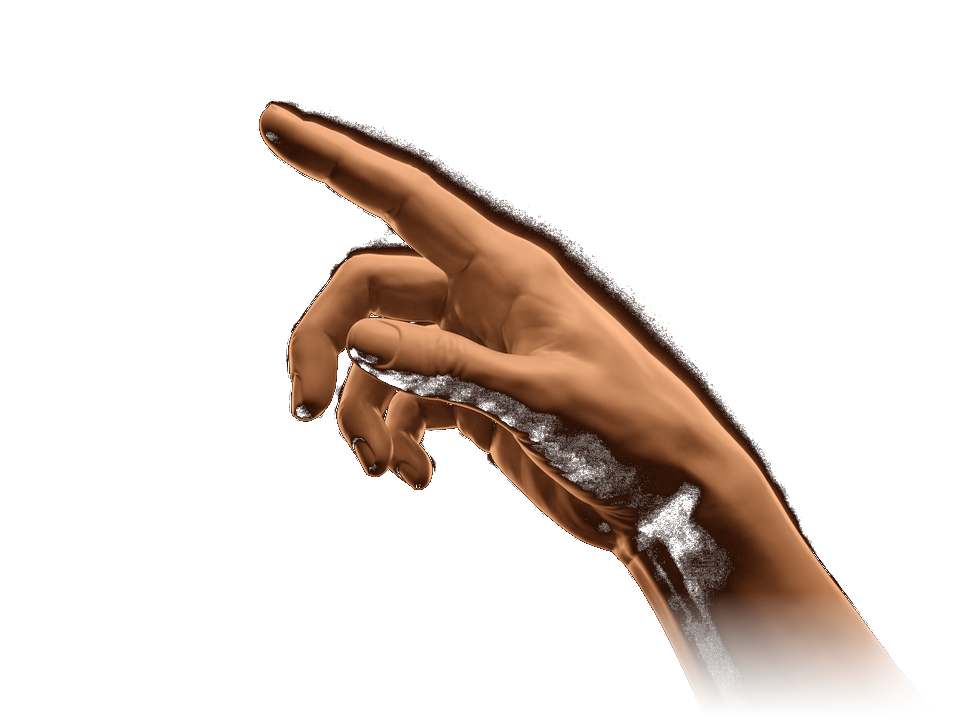
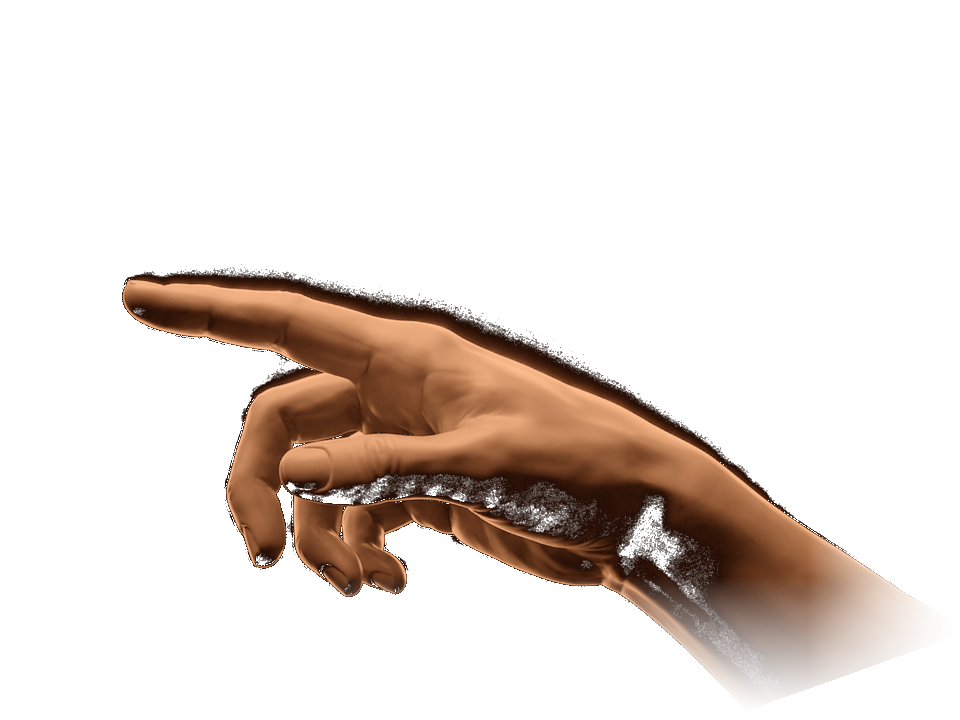
style(landing): refine halftone hand tilt angles (+38.5 left, +20 right) and converge spacing

Changed region(s): [[0.125, 0.1222, 0.9688, 0.9778]]

diff --git a/assets/css/style.css b/assets/css/style.css
@@ -4961,11 +4961,11 @@ body.is-reordering-active {
 
 /* Click Step 1 (0..560ms): Hands glide closer with open breathing gap + Emerald glow swells */
 .lp-creation-stage.is-converging .lp-hand-left-wrap {
-    transform: translate3d(clamp(54px, 7.6vw, 96px), clamp(2px, 0.35vw, 5px), 0) scale(1.02);
+    transform: translate3d(clamp(38px, 5vw, 62px), clamp(1px, 0.2vw, 3px), 0) scale(1.02);
 }
 
 .lp-creation-stage.is-converging .lp-hand-right-wrap {
-    transform: translate3d(calc(-1 * clamp(44px, 6.2vw, 78px)), calc(-1 * clamp(6px, 0.9vw, 13px)), 0) scale(1.02);
+    transform: translate3d(calc(-1 * clamp(32px, 4.2vw, 52px)), calc(-1 * clamp(4px, 0.7vw, 10px)), 0) scale(1.02);
 }
 
 .lp-creation-stage.is-converging .lp-stage-aura {
@@ -5044,10 +5044,10 @@ body.is-reordering-active {
         width: 120px;
     }
     .lp-creation-stage.is-converging .lp-hand-left-wrap {
-        transform: translate3d(26px, 2px, 0) scale(1.02);
+        transform: translate3d(22px, 1px, 0) scale(1.02);
     }
     .lp-creation-stage.is-converging .lp-hand-right-wrap {
-        transform: translate3d(-24px, -6px, 0) scale(1.02);
+        transform: translate3d(-20px, -5px, 0) scale(1.02);
     }
 }
 

diff --git a/index.php b/index.php
@@ -38,7 +38,7 @@ if (isset($_SESSION['user_id'])) {
     <link href="https://fonts.googleapis.com/css2?family=Inter:wght@400;500;600;700&family=JetBrains+Mono:wght@400;500;600&family=Syne:wght@600;700;800&family=Space+Grotesk:wght@500;600;700&display=swap" rel="stylesheet">
     <link href="https://cdn.jsdelivr.net/npm/bootstrap@5.1.3/dist/css/bootstrap.min.css" rel="stylesheet" integrity="sha384-1BmE4kWBq78iYhFldvKuhfTAU6auU8tT94WrHftjDbrCEXSU1oBoqyl2QvZ6jIW3" crossorigin="anonymous">
     <link rel="stylesheet" href="https://cdnjs.cloudflare.com/ajax/libs/font-awesome/6.0.0/css/all.min.css" integrity="sha384-3B6NwesSXE7YJlcLI9RpRqGf2p/EgVH8BgoKTaUrmKNDkHPStTQ3EyoYjCGXaOTS" crossorigin="anonymous">
-    <link href="assets/css/style.css?v=20261128_03" rel="stylesheet">
+    <link href="assets/css/style.css?v=20261128_04" rel="stylesheet">
 
     <!-- Motion Libraries: GSAP via CDN -->
     <script defer src="https://cdn.jsdelivr.net/npm/gsap@3.12.5/dist/gsap.min.js"></script>
@@ -151,7 +151,7 @@ if (isset($_SESSION['user_id'])) {
             <div class="lp-emerald-surge"></div>
 
             <div class="lp-hand-wrap lp-hand-left-wrap" id="handLeftWrap">
-                <img src="assets/images/hero/hand-left-halftone.png" alt="" class="lp-hand-img" width="960" height="720" loading="eager">
+                <img src="assets/images/hero/hand-left-halftone.png?v=20261128_04" alt="" class="lp-hand-img" width="960" height="720" loading="eager">
             </div>
 
             <div class="lp-center-relic-wrap" id="centerRelicWrap">
@@ -161,7 +161,7 @@ if (isset($_SESSION['user_id'])) {
             </div>
 
             <div class="lp-hand-wrap lp-hand-right-wrap" id="handRightWrap">
-                <img src="assets/images/hero/hand-right-halftone.png" alt="" class="lp-hand-img" width="960" height="720" loading="eager">
+                <img src="assets/images/hero/hand-right-halftone.png?v=20261128_04" alt="" class="lp-hand-img" width="960" height="720" loading="eager">
             </div>
         </div>
 

diff --git a/hero-review.php b/hero-review.php
@@ -276,11 +276,11 @@ $initConverged = (($_GET['state'] ?? '') === 'converged');
 
         /* Active Converging State (after clicking Mulai Petualangan) */
         .lp-creation-stage.is-converging .lp-hand-left-wrap {
-            transform: translate3d(clamp(54px, 7.6vw, 96px), clamp(2px, 0.35vw, 5px), 0) scale(1.02);
+            transform: translate3d(clamp(38px, 5vw, 62px), clamp(1px, 0.2vw, 3px), 0) scale(1.02);
         }
 
         .lp-creation-stage.is-converging .lp-hand-right-wrap {
-            transform: translate3d(calc(-1 * clamp(44px, 6.2vw, 78px)), calc(-1 * clamp(6px, 0.9vw, 13px)), 0) scale(1.02);
+            transform: translate3d(calc(-1 * clamp(32px, 4.2vw, 52px)), calc(-1 * clamp(4px, 0.7vw, 10px)), 0) scale(1.02);
         }
 
         .lp-creation-stage.is-converging .lp-center-relic-img {
@@ -431,10 +431,10 @@ $initConverged = (($_GET['state'] ?? '') === 'converged');
                 top: 50%;
             }
             .lp-creation-stage.is-converging .lp-hand-left-wrap {
-                transform: translate3d(26px, 2px, 0) scale(1.02);
+                transform: translate3d(22px, 1px, 0) scale(1.02);
             }
             .lp-creation-stage.is-converging .lp-hand-right-wrap {
-                transform: translate3d(-24px, -6px, 0) scale(1.02);
+                transform: translate3d(-20px, -5px, 0) scale(1.02);
             }
             .lp-creation-cta-wrap {
                 gap: 0.5rem;
